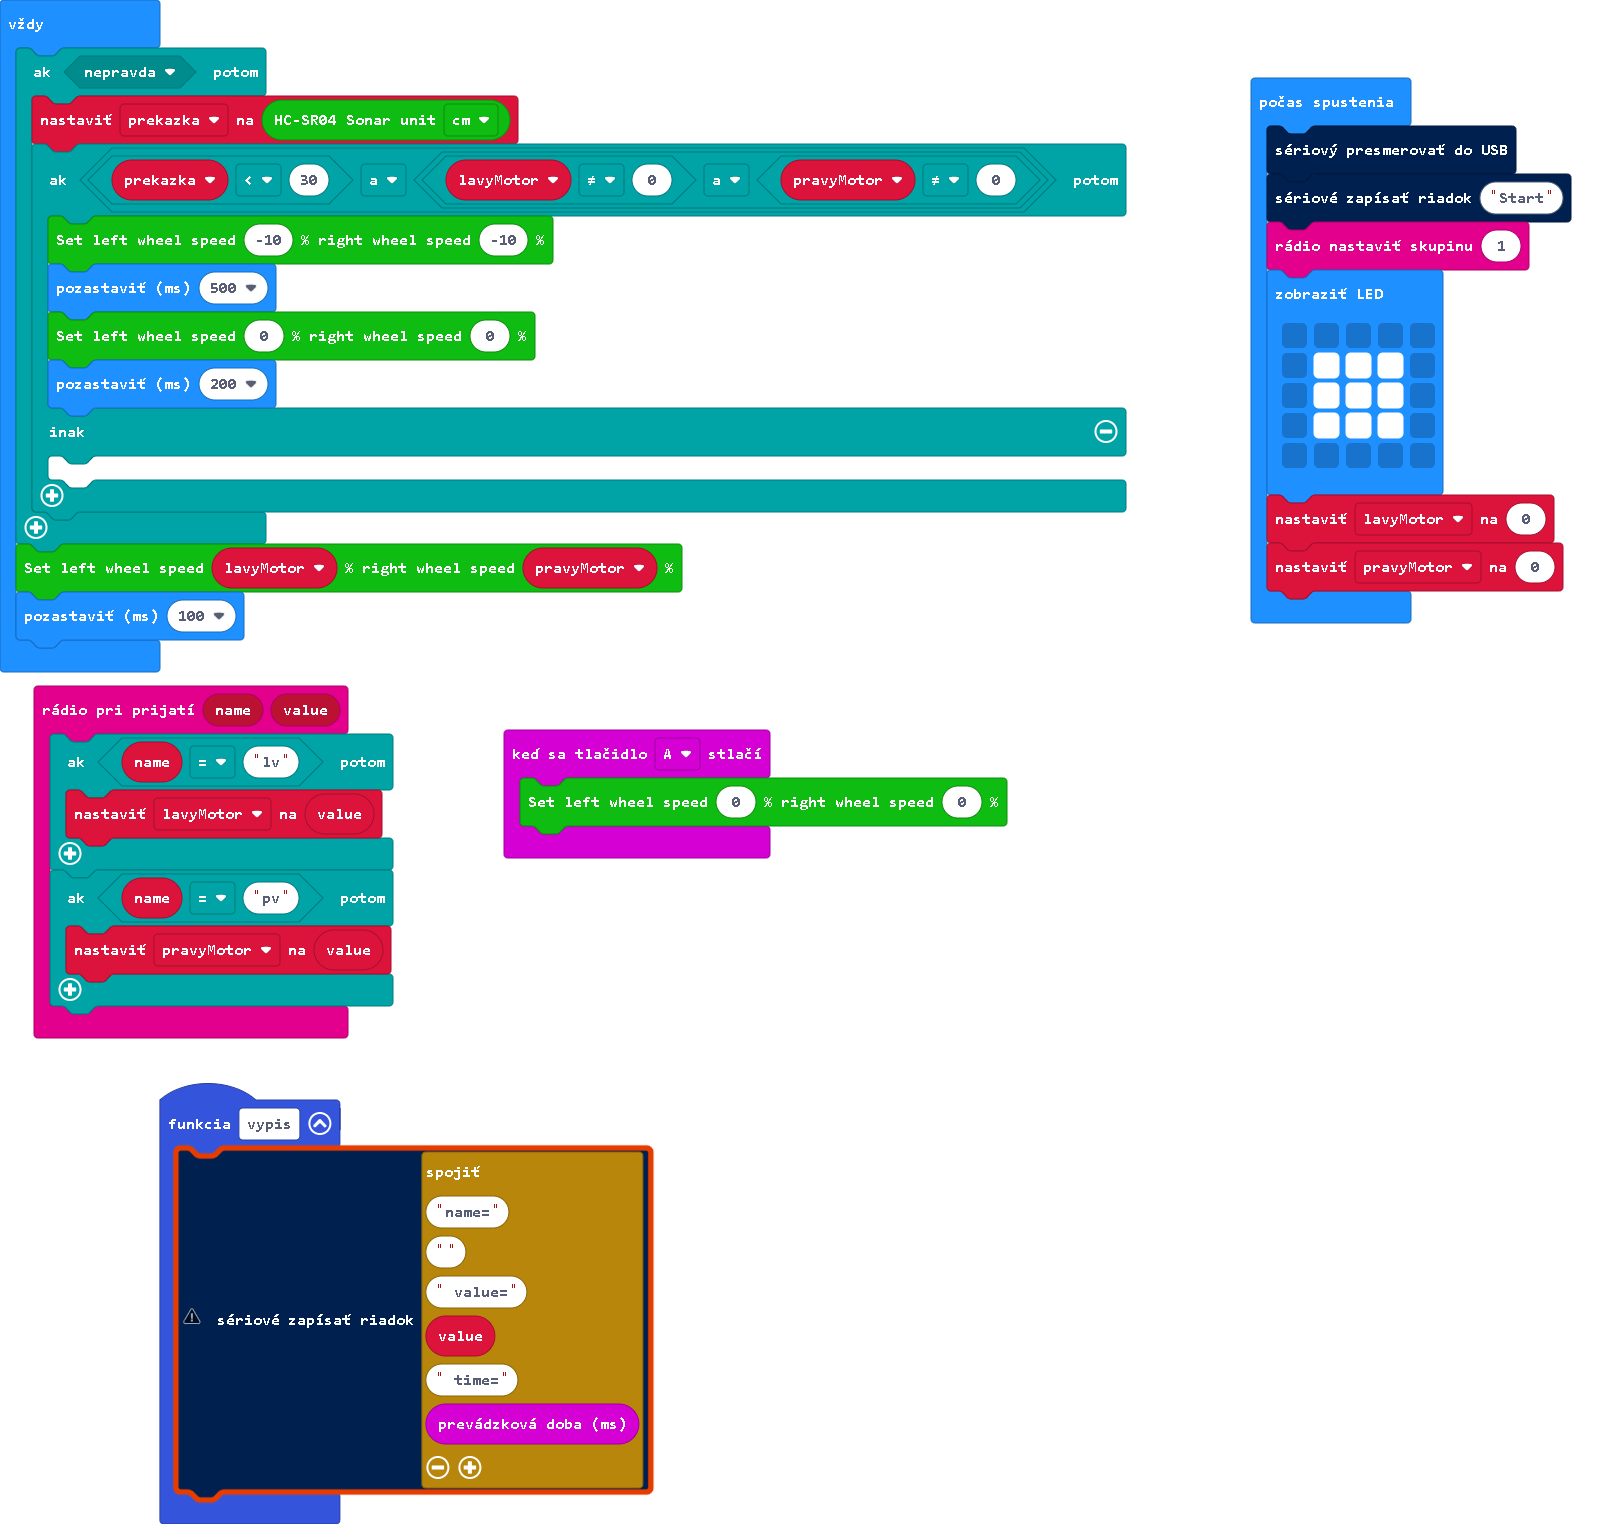
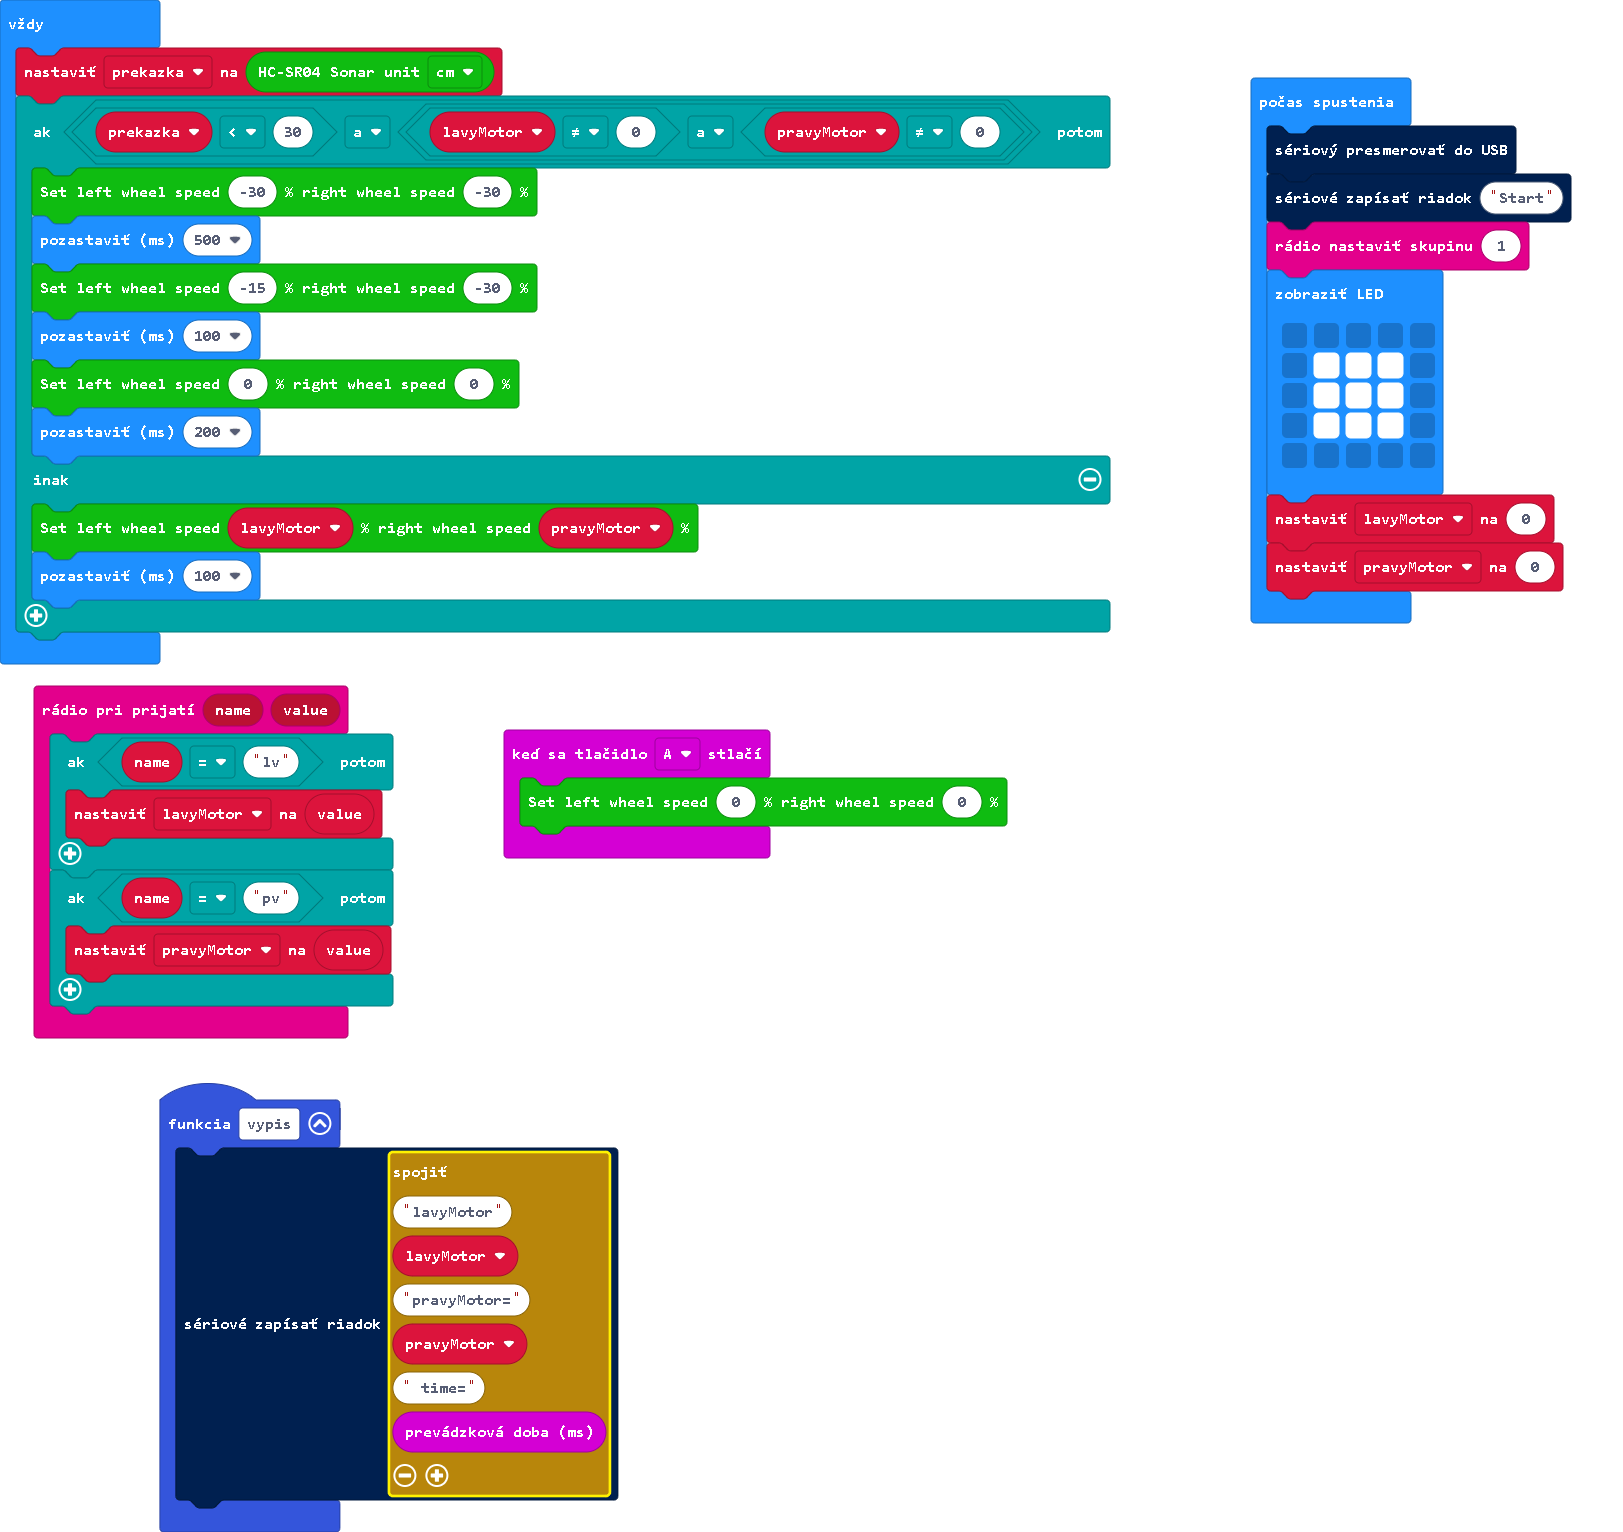
Aktualizovať main.blocks, main.ts

diff --git a/main.ts b/main.ts
@@ -2,7 +2,7 @@ input.onButtonPressed(Button.A, function () {
     cuteBot.motors(0, 0)
 })
 function vypis () {
-    serial.writeLine("name=" + "" + " value=" + value + " time=" + input.runningTime())
+    serial.writeLine("lavyMotor" + lavyMotor + "pravyMotor=" + pravyMotor + " time=" + input.runningTime())
 }
 radio.onReceivedValue(function (name, value) {
     if (name == "lv") {
@@ -28,17 +28,16 @@ basic.showLeds(`
 lavyMotor = 0
 pravyMotor = 0
 basic.forever(function () {
-    if (false) {
-        prekazka = cuteBot.ultrasonic(cuteBot.SonarUnit.Centimeters)
-        if (prekazka < 30 && (lavyMotor != 0 && pravyMotor != 0)) {
-            cuteBot.motors(-10, -10)
-            basic.pause(500)
-            cuteBot.motors(0, 0)
-            basic.pause(200)
-        } else {
-        	
-        }
+    prekazka = cuteBot.ultrasonic(cuteBot.SonarUnit.Centimeters)
+    if (prekazka < 30 && (lavyMotor != 0 && pravyMotor != 0)) {
+        cuteBot.motors(-30, -30)
+        basic.pause(500)
+        cuteBot.motors(-15, -30)
+        basic.pause(100)
+        cuteBot.motors(0, 0)
+        basic.pause(200)
+    } else {
+        cuteBot.motors(lavyMotor, pravyMotor)
+        basic.pause(100)
     }
-    cuteBot.motors(lavyMotor, pravyMotor)
-    basic.pause(100)
 })
